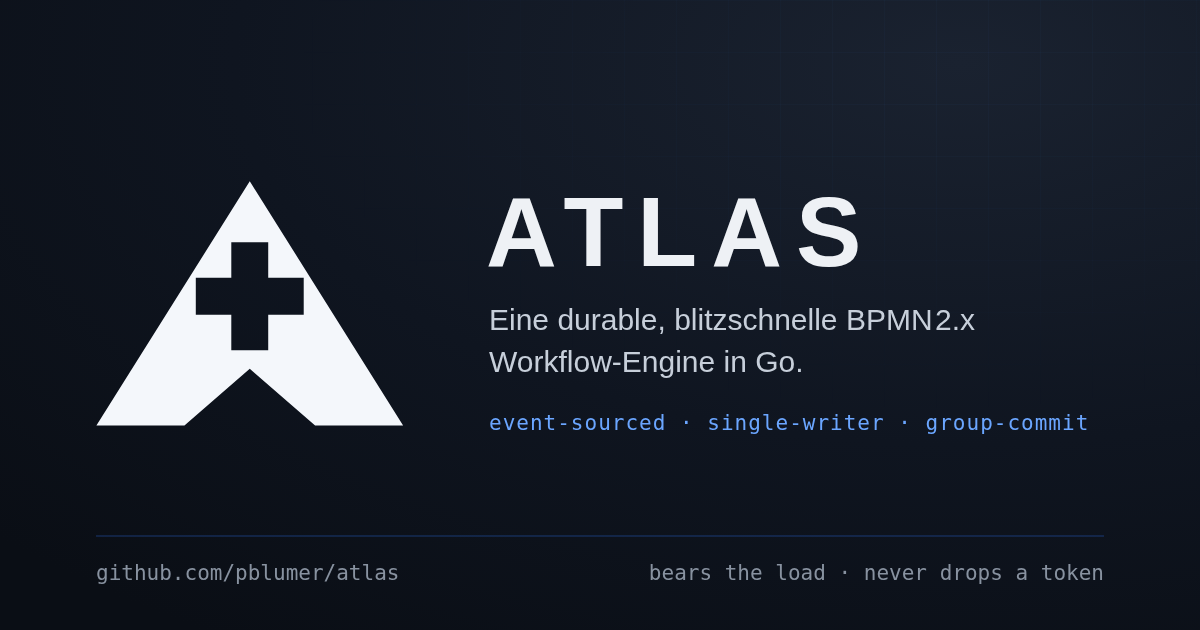
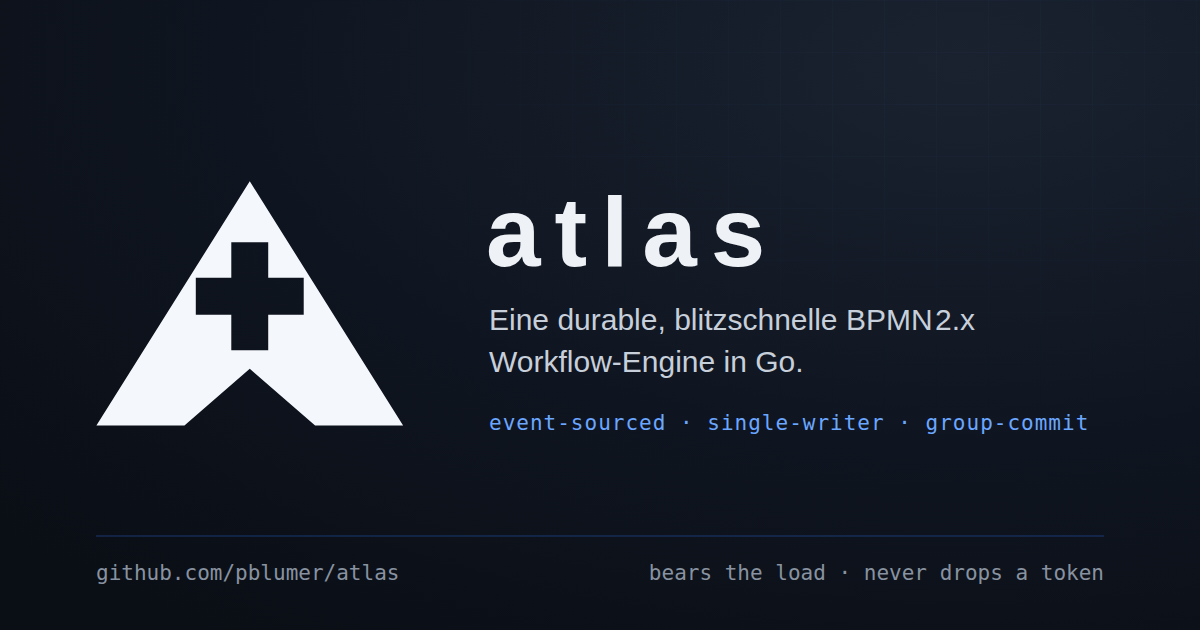
brand: the social card sets the name in lowercase
The wordmark on the link-preview card now reads `atlas`, not `ATLAS`. The
PNG is re-rendered from the SVG with headless Chromium; a pixel diff against
the previous card confirms nothing outside the wordmark box moved.

Record the lowercase setting in the brand README, so the next hand does not
put it back into capitals. `ATLAS` elsewhere in the tree is only an
environment-variable prefix and is never the mark.

Claude-Session: https://claude.ai/code/session_01TRjnnnp1rLjVpzvE7y8yKj

diff --git a/docs/brand/README.md b/docs/brand/README.md
@@ -21,6 +21,10 @@ box), use the tile-less `atlas-glyph.svg`, which inherits `currentColor`.
 `favicon.svg` is the same drawing pushed heavier — a larger peak and a thicker
 cross — because at 16px the shipped weights close up.
 
+**The wordmark is set lowercase.** The social card spells the name `atlas`.
+Keep it that way wherever the name is set as a wordmark. `ATLAS` in the
+codebase is only an environment-variable prefix and is never the mark.
+
 ## Files
 
 | File | What it is |
